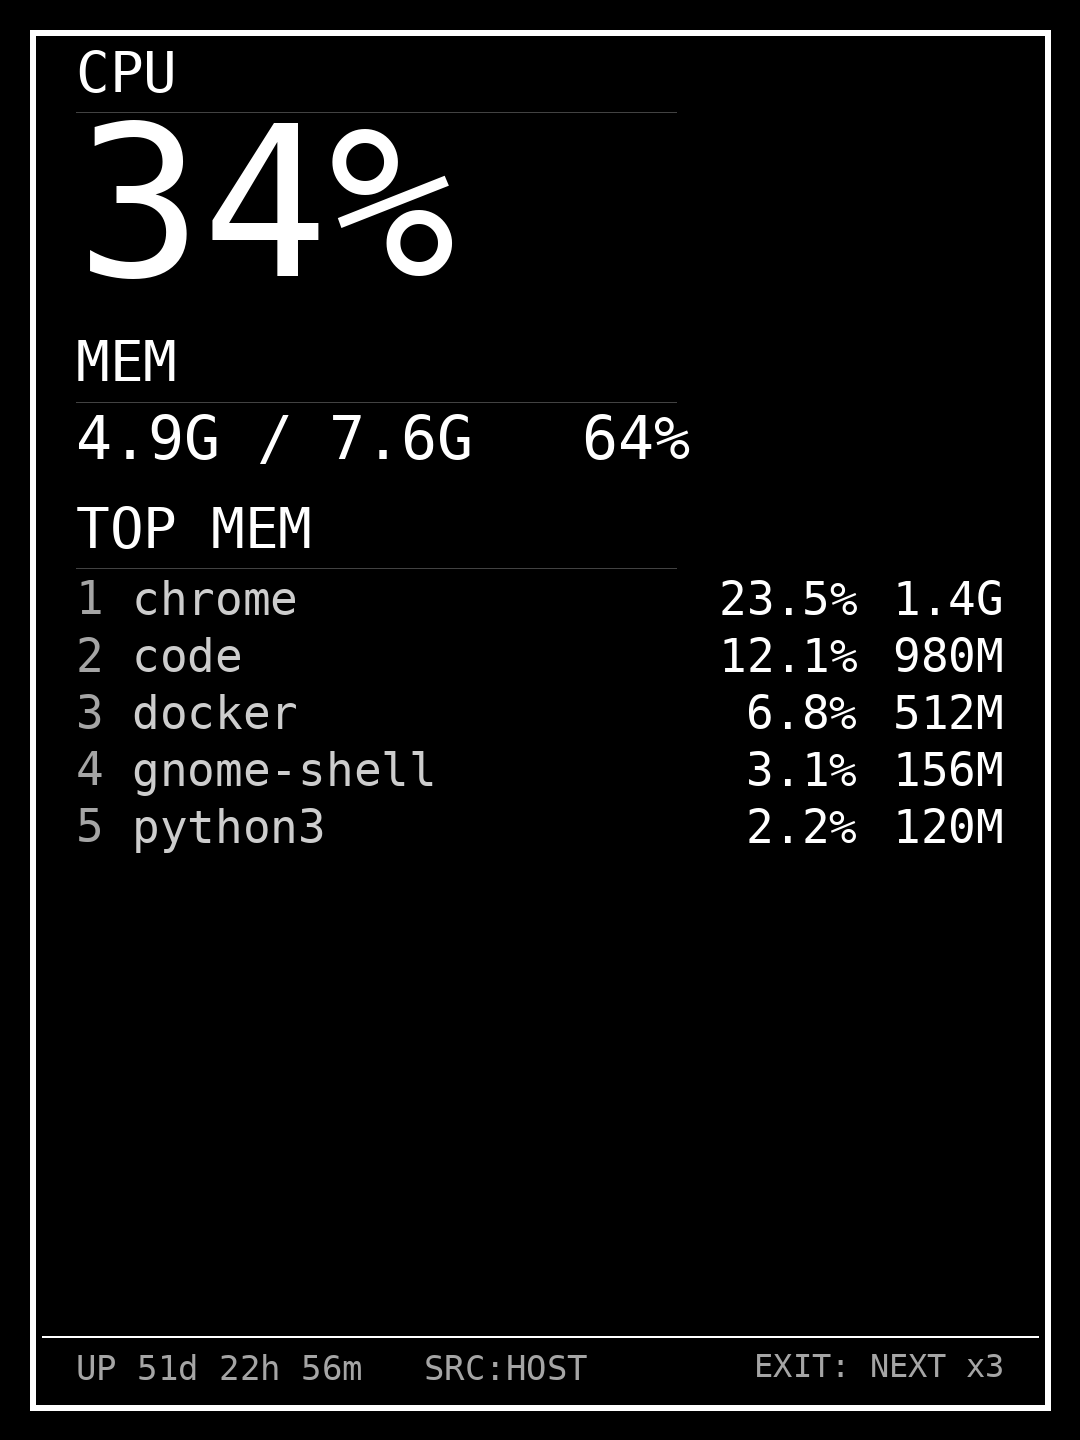
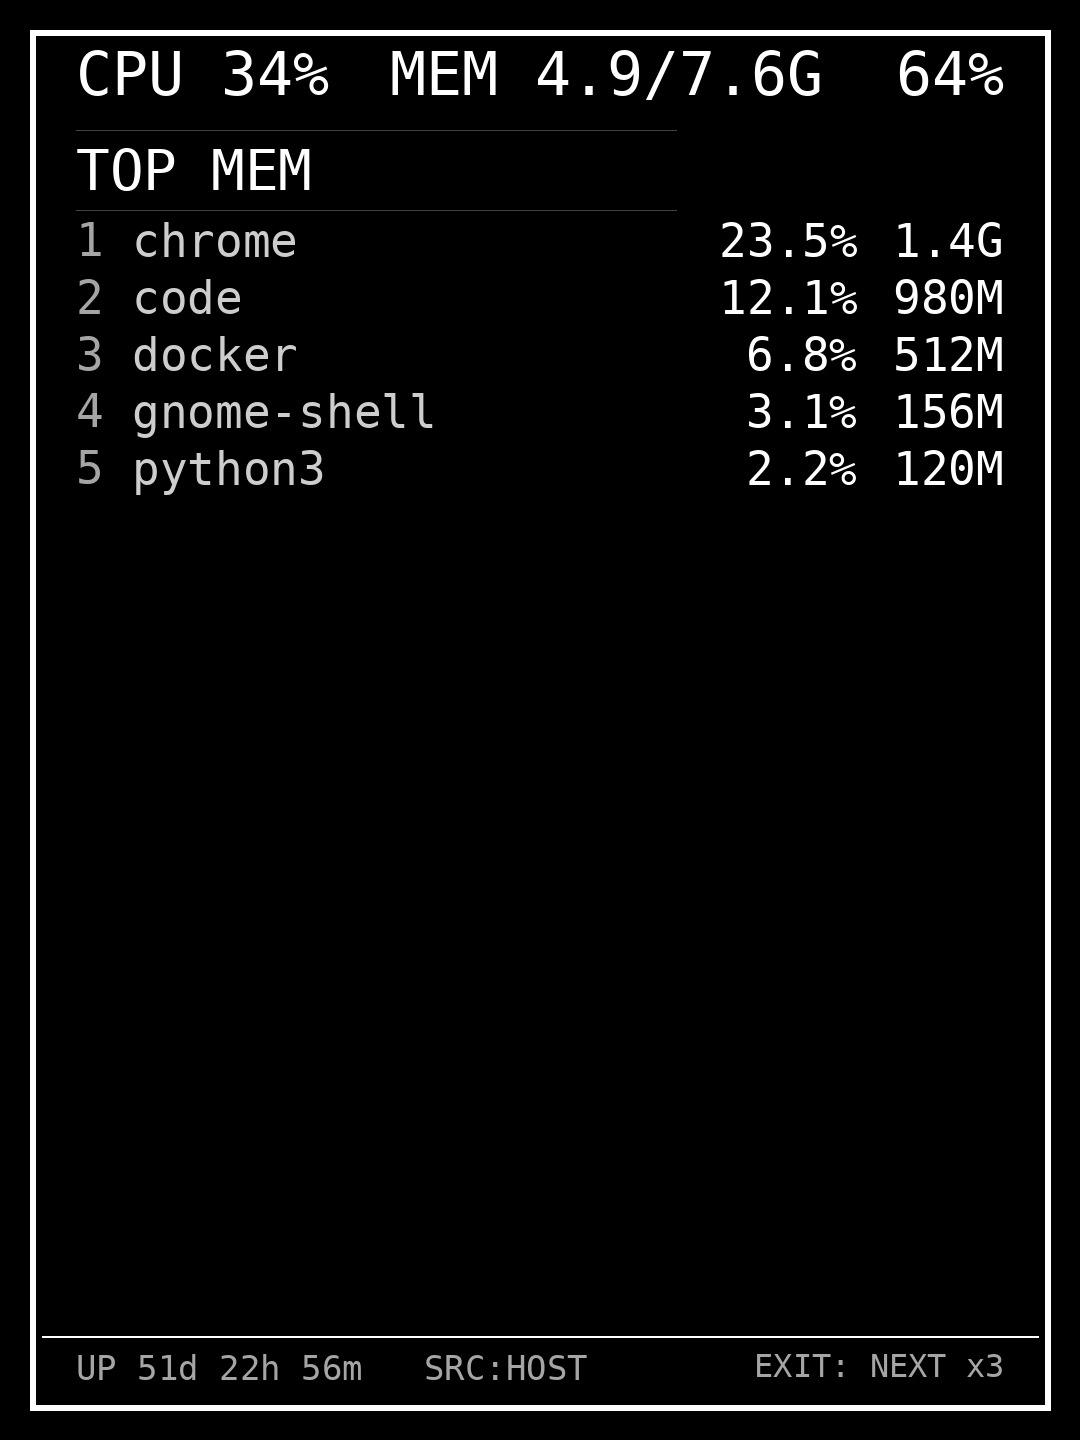
board: TOKEN row enlarged on top, CPU+MEM merged into one line

diff --git a/res_cover.py b/res_cover.py
@@ -121,29 +121,45 @@ def _section_label(d, x, y, label, P, s):
 
 # ---- section renderers (design units @1440h, scaled by s) ------------------
 
-def _sec_cpu(d, x0, xr, y, s, st, P):
+def _sec_gauge(d, x0, xr, y, s, st, P):
+    """One-line CPU + MEM gauge (user request: compact, single row)."""
     cpu = st.get("cpu") or {}
-    if not cpu:
-        _text(d, (x0, y), "cpu: n/a", int(40 * s), P["MGRAY"])
-        return y + int(60 * s)
-    y = _section_label(d, x0, y, "CPU", P, s)
-    big = "%d%%" % int(round(cpu.get("pct", 0)))
-    _text(d, (x0, y - int(4 * s)), big, int(210 * s), P["WHITE"],
-          anchor="lt")
-    return y + int(216 * s)
-
-
-def _sec_mem(d, x0, xr, y, s, st, P):
     mem = st.get("mem") or {}
-    if not mem:
+    cpus = "%d%%" % int(round(cpu.get("pct") or 0))
+    left = "CPU %s" % cpus
+    mems = "MEM %.1fG / %.1fG   %d%%" % (
+        mem.get("usedGB", 0), mem.get("totalGB", 0),
+        int(float(mem.get("pct") or 0)))
+    tf = _font(int(60 * s))
+    if d.textlength(left + "   ", font=tf) + d.textlength(mems, font=tf) \
+            > (xr - x0):
+        # tight screens: drop the spaces around the slash
+        mems = "MEM %.1f/%.1fG  %d%%" % (
+            mem.get("usedGB", 0), mem.get("totalGB", 0),
+            int(float(mem.get("pct") or 0)))
+    _text(d, (x0, y), left, int(60 * s), P["WHITE"], anchor="lt")
+    _text(d, (xr, y), mems, int(60 * s), P["WHITE"], anchor="rt")
+    d.line([(x0, y + int(80 * s)), (x0 + int(600 * s), y + int(80 * s))],
+           fill=P["DGRAY"] + (255,), width=1)
+    return y + int(98 * s)
+
+
+def _sec_token(d, x0, xr, y, s, st, P):
+    z = st.get("zcode")
+    if not z:
         return y
-    y = _section_label(d, x0, y, "MEM", P, s)
-    pct = float(mem.get("pct", 0))
-    _text(d, (x0, y),
-          "%.1fG / %.1fG   %d%%" % (mem.get("usedGB", 0),
-                                    mem.get("totalGB", 0), int(pct)),
-          int(60 * s), P["WHITE"], anchor="lt")
-    return y + int(92 * s)
+    # percentages in the payload are USED; show REMAINING on the cover
+    lvl = str(z.get("level") or "?").upper()
+    p5 = int(z.get("tokens5hPct") or 0)
+    pw = int(z.get("tokensWeekPct") or 0)
+    _text(d, (x0, y), "TOKEN %s" % lvl, int(52 * s), P["LGRAY"], anchor="lt")
+    _text(d, (x0 + int(430 * s), y), "5H %d%%" % (100 - p5),
+          int(72 * s), P["WHITE"], anchor="lt")
+    _text(d, (xr, y), "WK %d%%" % (100 - pw),
+          int(72 * s), P["WHITE"], anchor="rt")
+    d.line([(x0, y + int(88 * s)), (x0 + int(600 * s), y + int(88 * s))],
+           fill=P["DGRAY"] + (255,), width=1)
+    return y + int(106 * s)
 
 
 def _sec_procs(d, x0, xr, y, s, st, P):
@@ -172,22 +188,6 @@ def _sec_procs(d, x0, xr, y, s, st, P):
         _text(d, (xr, y), mems, int(46 * s), P["WHITE"], anchor="rt")
         y += int(57 * s)
     return y
-
-
-def _sec_token(d, x0, xr, y, s, st, P):
-    z = st.get("zcode")
-    if not z:
-        return y
-    # percentages in the payload are USED; show REMAINING on the cover
-    lvl = str(z.get("level") or "?").upper()
-    p5 = int(z.get("tokens5hPct") or 0)
-    pw = int(z.get("tokensWeekPct") or 0)
-    _text(d, (x0, y), "TOKEN %s" % lvl, int(40 * s), P["LGRAY"], anchor="lt")
-    _text(d, (x0 + int(360 * s), y), "5H %d%%" % (100 - p5),
-          int(52 * s), P["WHITE"], anchor="lt")
-    _text(d, (xr, y), "WK %d%%" % (100 - pw),
-          int(52 * s), P["WHITE"], anchor="rt")
-    return y + int(74 * s)
 
 
 # ---- main renderer ----------------------------------------------------------
@@ -238,9 +238,8 @@ def render_res_cover(status, w=1080, h=1440, mono=True, theme="dark",
     # ---- sections; the plan-quota row sits on top (user's primary metric),
     # ---- on a short screen the TOP MEM block is dropped first ---------------
     y = _sec_token(d, x0, xr, y, s, status, P)
-    y = _sec_cpu(d, x0, xr, y, s, status, P)
-    y = _sec_mem(d, x0, xr, y, s, status, P)
-    if y + int(660 * s) < bottom_limit:
+    y = _sec_gauge(d, x0, xr, y, s, status, P)
+    if y + int(560 * s) < bottom_limit:
         y = _sec_procs(d, x0, xr, y, s, status, P)
 
     # ---- footer ----------------------------------------------------------------

diff --git a/README.md b/README.md
@@ -15,10 +15,11 @@
 ## 功能特性
 
 - **常驻看板**：Kindle 上常驻显示，每 **3 分钟**自动刷新。
-- **指标**：CPU 总占用大字号直出（不显示 load/温度）；内存/Swap 数值行；
+- **指标**：套餐余量行置顶（TOKEN，见下）；CPU + 内存合并为一行
+  大字号（`CPU 34%` / `MEM 4.9G / 6.8G 72%`）；
   TOP 10 内存进程
   （CPU% + 内存 MB，按内存降序；Node 等运行时写进 comm 的线程名
-  如 `MainThread` 会自动还原成脚本名）；运行时长。
+  如 `MainThread` 会自动还原成脚本名）；底部运行时长。
 - **Coding Plan 套餐余量行**（可选）：自动复用本机 ZCode 托管的
   智谱 GLM Coding Plan 凭据（本机解密，不落盘、不外传 key），查官方
   `/api/monitor/usage/quota/limit` 接口，在进程列表下方显示
